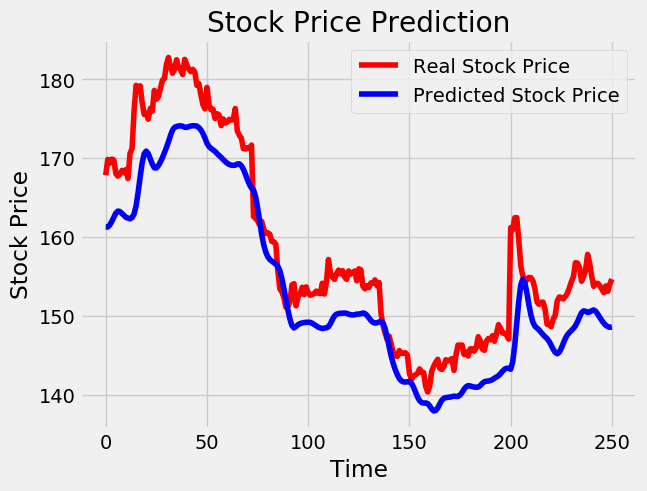
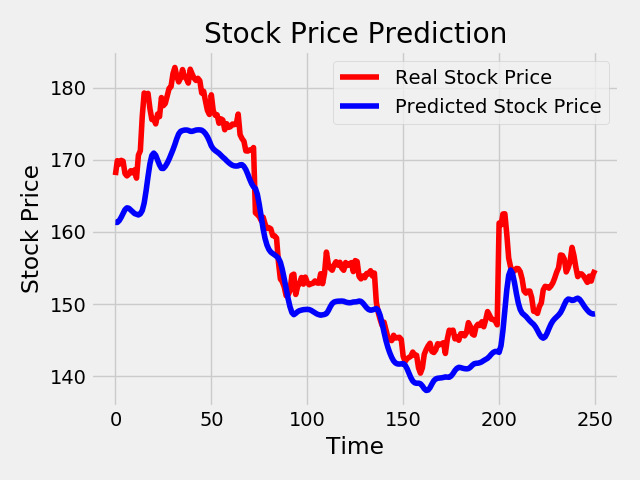
updated webapp files

diff --git a/webapp/templates/index.html b/webapp/templates/index.html
@@ -73,11 +73,12 @@
           <td><input name="file"/></td>
           <td>
             <select name="comp_select" class="selectpicker form-control">
-              {% for m in models %}
-              <option value="{{ m.name }}">{{ m.name }}</option>
+              {% for m in modelfiles %}
+              <option value="{{ m }}">{{ m }}</option>
               {% endfor %}
             </select>
           </td>
+          <!-- <td> {{modelfiles}}</td> -->
         </tr>
     </table>
 		<button type="submit">Predict</button>

diff --git a/webapp/app.py b/webapp/app.py
@@ -13,20 +13,26 @@ import pred
 # as a function instead of a package name
 import math
 from sklearn.metrics import mean_squared_error
-
+import os
+from os.path import isfile, join
 
 app = Flask(__name__)
 
 
 @app.route('/',methods=['GET','POST'])
 def index():
-    return render_template('index.html', models=[{'name':''}, {'name':'model_epoch_60.h5'}, {'name':'model_epoch_30.h5'}])
+    mypath = os.getcwd()+'\models'
+    # relative path of models folder
+    onlyfiles = [f for f in os.listdir(mypath) if isfile(join(mypath, f))]
+    return render_template('index.html', modelfiles = onlyfiles)
+    # read from models folder the list of models to select
+
 
 
 
 @app.route('/predict',methods=['POST', 'GET'])
 def predict():
-    file=request.values['file']
+    file = request.values['file']
     select = request.form.get('comp_select')
 
     dataset = train.read_data(file)
@@ -45,9 +51,10 @@ def predict():
     rmse = pred.return_rmse(test_set, predicted_stock_price)
     pred.plot_predictions(test_set, predicted_stock_price, nameURL = 'static/'+ str(select).replace('.h5',"")+'.png')
     # the image URL to pass on to predict.html, it has to be in a 'static' folder
-    imgname = 'static/'+ str(select).replace('.h5',"")+'.png'
-    return render_template('predict.html', model=select, rmse=rmse, imgname = imgname)
-    # image not showing!
+    imgname = 'static/'+ str(select).replace('.h5','.png')
+    return render_template('predict.html', model=select, rmse=rmse,
+                            imgname = imgname)
+    # image for 30 epochs is still not showing xlabel and ylabel
 
 
 if __name__=='__main__':

diff --git a/webapp/pred.py b/webapp/pred.py
@@ -13,8 +13,8 @@ from sklearn.preprocessing import MinMaxScaler
 from sklearn.metrics import mean_squared_error
 import train
 from matplotlib import rcParams
-# # without this line, savefig() will cut off the xlabel and ylabel
-# rcParams.update({'figure.autolayout': True})
+# without this line, savefig() will cut off the xlabel and ylabel
+rcParams.update({'figure.autolayout': True})
 
 # there's a 3rd argument test_set comparing to older version of predict.py
 def test_inputs(lookback, data, test_set):
@@ -40,7 +40,7 @@ def plot_predictions(test, predicted, nameURL):
     # changed from plt.show() to plt.savefig()
     plt.savefig(nameURL)
     # savefig() doesn't save the xlabel, ylabel?
-    plt.autoscale()
+    # plt.autoscale()
     # this line also allows us to savefig() with xlabel and ylabel
     plt.close()
 
